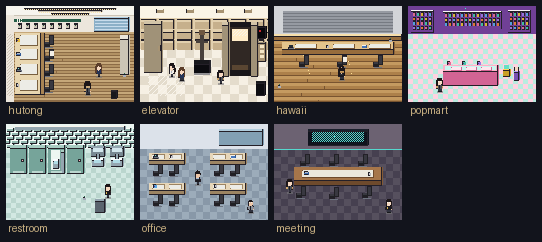
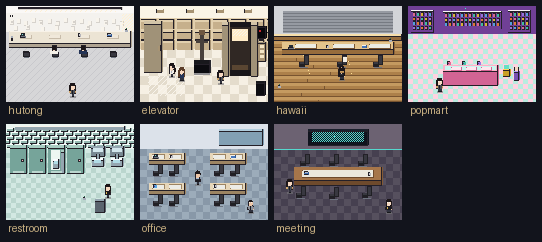
Rebuild hutong as a wall-flush long desk with four inward seats.
The side-desk photo is now the layout source: pale desk against the far ttc wall, four black chairs on the aisle side facing the wall, and a mostly empty tabletop. The deep office shot stays atmosphere only.

Changed region(s): [[0.0, 0.0289, 0.2657, 0.4339]]

diff --git a/public/index.html b/public/index.html
@@ -154,7 +154,7 @@
       </section>
       <section>
         <h2>保留场景 · 7</h2>
-        <p class="note">胡同工位朝里四座 / 电梯间 / 夏威夷 / 泡泡玛特 / 厕所 / 普通工位 / 会议室。茶水间、打印区、楼梯过道、天台、老板办公室、快递门口、胡同口已下架。</p>
+        <p class="note">胡同工位：远墙一条长桌、一侧四座朝墙、桌面留空 / 电梯间 / 夏威夷 / 泡泡玛特 / 厕所 / 普通工位 / 会议室。茶水间、打印区、楼梯过道、天台、老板办公室、快递门口、胡同口已下架。</p>
         <div class="grid" id="rooms"></div>
       </section>
       <section>
@@ -199,8 +199,8 @@
   <script>
     const ROOMS = [
       { id:"hutong", title:"胡同工位区", src:"assets/scenes/hutong/scene_hutong.png",
-        line:"这边还能放杯子。", y:148, t:"09:20", action:"sit_aisle",
-        why:"朝里拍，一边四座，里侧朝墙，桌面留空位。" },
+        line:"这边还能放杯子。", y:158, t:"09:20", action:"sit_aisle",
+        why:"远墙贴一条浅色长桌，一侧四座朝墙，桌面留空。" },
       { id:"elevator", title:"电梯间", src:"assets/scenes/elevator/scene_elevator.png",
         line:"先等这梯。", y:128, t:"09:12", action:"wait_lift",
         why:"米黄石材、开门、雕塑台座、屏与按钮。" },

diff --git a/scripts/generate_rooms.py b/scripts/generate_rooms.py
@@ -35,20 +35,20 @@ import generate_cast as gc  # noqa: E402
 W, H = 256, 192
 
 HT = {
-    "ceil": (246, 244, 238, 255),
-    "wall": (236, 230, 220, 255),
-    "wall_d": (204, 196, 182, 255),
-    "trim": (36, 92, 70, 255),
-    "floor": (198, 168, 122, 255),
-    "floor2": (178, 146, 100, 255),
-    "gap": (140, 108, 70, 255),
-    "desk": (232, 214, 176, 255),
-    "desk_hi": (248, 236, 204, 255),
-    "desk_e": (168, 132, 84, 255),
-    "pad": (242, 228, 190, 255),
+    "ceil": (250, 248, 246, 255),
+    "wall": (244, 242, 238, 255),
+    "wall_d": (214, 210, 204, 255),
+    "trim": (36, 34, 38, 255),
+    "floor": (214, 214, 216, 255),
+    "floor2": (200, 200, 204, 255),
+    "gap": (176, 176, 180, 255),
+    "desk": (236, 228, 212, 255),
+    "desk_hi": (248, 242, 232, 255),
+    "desk_e": (176, 164, 146, 255),
+    "pad": (246, 240, 228, 255),
     "chair": (32, 32, 36, 255),
     "mesh": (56, 56, 64, 255),
-    "sun": (255, 232, 176, 255),
+    "sun": (255, 240, 210, 255),
     "win": (174, 206, 228, 255),
 }
 EL = {
@@ -236,66 +236,110 @@ def chair_back(jacket=False) -> Image.Image:
     return img
 
 
+def chair_north(jacket=False) -> Image.Image:
+    """Mesh chair facing the far wall: dark seat + BACK toward the aisle."""
+    img = new(18, 20)
+    d = ImageDraw.Draw(img)
+    oval_shadow(d, 9, 18, 7, 2)
+    vline(d, 8, 14, 17, PAL["metal"])
+    hline(d, 4, 13, 17, PAL["metal_d"])
+    rect(d, [3, 5, 14, 9], HT["chair"])
+    box1(d, 2, 7, 15, 16, HT["chair"])
+    for y in range(9, 15):
+        for x in range(4, 14):
+            if (x + y) % 2 == 0:
+                d.point((x, y), fill=HT["mesh"])
+    if jacket:
+        rect(d, [4, 9, 13, 14], HW["jacket"])
+    return img
+
+
+def prop_spray() -> Image.Image:
+    img = new(5, 10)
+    d = ImageDraw.Draw(img)
+    box1(d, 1, 3, 3, 9, (220, 232, 242, 255))
+    rect(d, [1, 1, 3, 3], PAL["metal"])
+    d.point((2, 0), fill=PAL["metal_d"])
+    return img
+
+
+def seated_facing_wall(cid) -> Image.Image:
+    """Compact back-of-head + shoulders; sitting, facing the far wall."""
+    spec = next(s for s in gc.CAST if s["id"] == cid)
+    img = new(18, 18)
+    d = ImageDraw.Draw(img)
+    rect(d, [1, 10, 16, 17], spec["sleeve"])
+    rect(d, [4, 1, 13, 11], INK)
+    rect(d, [5, 2, 12, 10], (28, 22, 24, 255))
+    rect(d, [7, 10, 10, 12], spec["skin"])
+    return img
+
+
 def cast_sprite(cid="cast_01", view="front", frame=0):
     spec = next(s for s in gc.CAST if s["id"] == cid)
     return gc.draw_cast(spec, view, frame)
 
 
 # ===========================================================================
-# 1. 胡同 — 朝里 · 长桌贴左墙 · 四座朝墙 · 空 pad
+# 1. 胡同 — 远墙一条浅色长桌 · 一侧四座朝墙 · 桌面留空
+#    Layout from the side-along-the-desk photo (not the deep-office shot).
+#    WALL (top) | DESK | people/chairs facing wall | AISLE (bottom)
 # ===========================================================================
 def scene_hutong() -> Image.Image:
     room = new(W, H, HT["floor"])
     d = ImageDraw.Draw(room)
-    wood_floor(room, 52, HT["floor"], HT["floor2"], HT["gap"], 6)
+    # pale office floor — faint seams, not a checker floorplan
+    rect(d, [0, 84, W - 1, H - 1], HT["floor"])
+    for y in range(84, H, 28):
+        hline(d, 0, W - 1, y, HT["floor2"])
+    for x in range(0, W, 40):
+        vline(d, x, 84, H - 1, HT["floor2"])
+    dither(d, 0, 84, W - 1, H - 1, HT["floor2"], 7)
 
-    # ceiling + receding fixtures
-    rect(d, [0, 0, W - 1, 18], HT["ceil"])
-    for x0, x1, y in ((36, 220, 4), (64, 192, 9), (90, 166, 14)):
-        prism(d, x0, y, x1 - x0, 2, 2, WHITE, HT["wall_d"])
-        dither(d, x0, y + 3, x1, y + 4, HT["sun"], 4)
+    # white ceiling + fluorescent
+    rect(d, [0, 0, W - 1, 13], HT["ceil"])
+    prism(d, 24, 3, 208, 3, 3, WHITE, HT["wall_d"])
+    dither(d, 36, 8, 220, 12, HT["sun"], 5)
 
-    # far wall
-    rect(d, [0, 19, W - 1, 51], HT["wall"])
-    hline(d, 0, W - 1, 19, HT["wall_d"])
-    rect(d, [16, 26, 150, 32], HT["trim"])
-    tiny_text(d, 22, 27, "ttc", WHITE)
-    for x in (24, 40, 56, 72, 88, 104, 120, 136):
-        prism(d, x, 35, 8, 3, 8, WHITE, HT["wall_d"])
-        d.point((x + 3, 39), fill=HT["trim"])
-    # far window light
-    prism(d, 176, 22, 70, 4, 26, HT["win"], (140, 176, 200, 255))
-    for y in range(26, 48, 3):
-        hline(d, 178, 244, y, HT["sun"] if y % 6 == 2 else (200, 220, 236, 255))
-    for k in range(0, 36, 2):
-        d.point((200 + k // 4, 54 + k), fill=HT["sun"])
+    # FAR white wall — ttc + small frames. Desk flush to THIS wall.
+    rect(d, [0, 14, W - 1, 51], HT["wall"])
+    hline(d, 0, W - 1, 14, HT["wall_d"])
+    tiny_text(d, 8, 18, "ttc", HT["trim"])
+    frames = (
+        (8, 28), (22, 26), (36, 30), (52, 24), (66, 29),
+        (84, 26), (100, 31), (116, 24), (132, 28), (148, 26),
+        (164, 30), (180, 24), (196, 29), (212, 26), (228, 31),
+        (16, 40), (40, 38), (70, 42), (98, 39), (130, 41),
+        (160, 38), (190, 42), (220, 39),
+    )
+    for i, (fx, fy) in enumerate(frames):
+        box1(d, fx, fy, fx + 7, fy + 9, WHITE, HT["wall_d"])
+        if i % 4 == 0:
+            rect(d, [fx + 2, fy + 3, fx + 5, fy + 6], HT["wall_d"])
 
-    # LEFT inner wall (seats face this)
-    rect(d, [0, 19, 16, H - 1], HT["wall"])
-    vline(d, 16, 19, H - 1, HT["wall_d"])
-    dither(d, 2, 56, 14, 180, HT["wall_d"], 6)
+    dither(d, 232, 16, 254, 50, HT["sun"], 6)
 
-    # ONE continuous bench flush to the left wall; lip faces the AISLE (east)
-    prism(d, 18, 54, 52, 124, 8, HT["desk"], HT["desk_e"], lip="east")
-    items = [
-        (58, "box", prop_blindbox(BOXC[2]), False),
-        (86, "note", prop_notebook(), True),
-        (116, "laptop", prop_laptop(), False),
-        (148, "cup", prop_cup(), False),
-    ]
-    for y, name, spr, jacket in items:
-        # cool-white pad so the vacant bay reads on warm wood
-        empty_pad(d, 28, y, 36, 22, (236, 236, 230, 255), (120, 96, 64, 255))
-        blit(room, spr, 20, y + 6)
-        blit(room, chair_back(jacket=jacket), 76, y)
+    # ONE deep horizontal pale desk flush to the far wall (south lip = aisle)
+    prism(d, 6, 50, 244, 26, 8, HT["desk"], HT["desk_e"])
+    hline(d, 8, 247, 51, HT["desk_hi"])
 
-    # aisle column + plant + bag
-    prism(d, 228, 58, 18, 10, 70, HT["wall"], HT["wall_d"])
-    blit(room, prop_plant(), 232, 128)
-    prism(d, 210, 168, 12, 4, 14, (40, 40, 46, 255), (24, 24, 28, 255))
+    # four seat bays — faint pads, lots of bare laminate between them
+    bays = (16, 74, 132, 190)
+    items = (prop_laptop(), None, prop_cup(), prop_notebook())
+    for i, (bx, spr) in enumerate(zip(bays, items)):
+        empty_pad(d, bx + 12, 58, 24, 8, (240, 232, 218, 255), (200, 188, 170, 255))
+        if spr is not None:
+            blit(room, spr, bx + 12, 54)
+        blit(room, chair_north(), bx + 16, 86)
 
-    blit(room, cast_sprite("cast_01", "back", 0), 148, 148)
-    blit(room, cast_sprite("cast_06", "side", 0), 170, 112)
+    blit(room, prop_spray(), 10, 60)
+    blit(room, prop_plant(), 236, 38)
+
+    # sit BETWEEN chair and desk, facing the wall (backs to the aisle)
+    blit(room, seated_facing_wall("cast_02"), 88, 78)
+    blit(room, seated_facing_wall("cast_06"), 146, 78)
+
+    blit(room, cast_sprite("cast_01", "side", 0), 118, 152)
     return room
 
 
@@ -548,10 +592,10 @@ def scene_meeting() -> Image.Image:
 
 SCENES = [
     dict(id="hutong", title="胡同工位区",
-         blurb="朝里 · 长桌贴墙 · 一边四座朝墙 · 每座空 pad",
-         fn=scene_hutong, walk_y=148, line="这边还能放杯子。",
+         blurb="远墙一条浅色长桌 · 一侧四座朝墙 · 桌面留空",
+         fn=scene_hutong, walk_y=158, line="这边还能放杯子。",
          beat_t="09:20", action="sit_aisle",
-         why="相机在过道朝里：左墙一条长凳桌，四把黑椅背对过道、脸朝墙。每格桌面盖着空物位，只在靠墙侧放一件。"),
+         why="相机在过道朝墙：白墙 ttc + 小镜框，一条浅色长桌贴远墙，四把黑椅在桌南侧、人朝墙坐。桌面大块留空，只靠墙放一两件。纵深办公室照片只作白墙/黑椅/顶灯气氛。"),
     dict(id="elevator", title="电梯间",
          blurb="米黄石材 · 开门体积 · 雕塑台座 · 屏与按钮",
          fn=scene_elevator, walk_y=126, line="先等这梯。",

diff --git a/scripts/generate_assets.py b/scripts/generate_assets.py
@@ -32,10 +32,12 @@ import generate_rooms as rooms  # noqa: E402
 def tile_hutong_floor():
     t = new(32, 32, rooms.HT["floor"])
     d = ImageDraw.Draw(t)
-    for y in range(0, 32, 8):
-        base = rooms.HT["floor"] if (y // 8) % 2 == 0 else rooms.HT["floor2"]
-        rect(d, [0, y, 31, y + 7], base)
-        hline(d, 0, 31, y + 7, rooms.HT["gap"])
+    for y in range(0, 32, 16):
+        for x in range(0, 32, 16):
+            c = rooms.HT["floor"] if ((x + y) // 16) % 2 == 0 else rooms.HT["floor2"]
+            rect(d, [x, y, min(x + 15, 31), min(y + 15, 31)], c)
+            hline(d, x, min(x + 15, 31), y, rooms.HT["gap"])
+            vline(d, x, y, min(y + 15, 31), rooms.HT["gap"])
     return t
 
 

diff --git a/design/art-brief.md b/design/art-brief.md
@@ -15,7 +15,7 @@
 |------|------|
 | 相机 | 略俯，能看见桌面顶面和椅背 |
 | 角色 | 大头小身 chibi，不是写实肖像 |
-| 深度 | 阴影、墙厚、遮挡；胡同工位用「朝里」纵深 |
+| 深度 | 阴影、墙厚、遮挡；胡同工位是过道朝墙看一条横长桌 |
 | 轮廓 | **1px** 深色描边，不要 2px 粗块 |
 | 缩放 | `image-rendering: pixelated`，整数倍 |
 
@@ -23,7 +23,7 @@
 
 | 场景 | 地板 | 光 | 硬规则 |
 |------|------|----|--------|
-| 胡同工位区 | 浅木纹 | 窗外日光 + 顶灯 | 朝里拍，一边四座，里侧朝墙，桌面留空 |
+| 胡同工位区 | 浅灰地 | 白墙顶灯 | 远墙一条浅色长桌，一侧四座朝墙，桌面留空。纵深办公室照只作气氛 |
 | 电梯间 | 白石大理石 | 筒灯暖白 | 米黄石材、开门、雕塑、屏与按钮 |
 | 夏威夷 | 暖木 | 卷帘缝日光 | 窗边，座位留物位 |
 | 泡泡玛特 | 粉×薄荷细格 | 粉/青灯带 | 柜台不要堆死 |

diff --git a/design/iteration-rounds.md b/design/iteration-rounds.md
@@ -14,6 +14,7 @@
 | R8 | 八人 cast | 按参考重画 idle/walk；01 发尾 / 02 眼镜白衫 / 05 灰西 / 06 褐发条纹 / 07 蓝领 | 01/03/04/08 仍偏近；**cast_03 缺正脸** |
 | R9 | 文案+主循环 | `parallel-universe.md` + `distill-spec.md`：在线操控 / 离线 agent / 行为学习；蒸馏=冷启动。画廊/一天去掉「纯 agent」 | — |
 | R10 | 抛光选 best | 木地板改长条（去砖感）；椅背加大朝过道；空 pad 冷白描边 | 整体仍偏干净示意图，未达「元气骑士级密度」 |
+| R11 | 胡同按侧桌照片 | 远墙横长桌（不再贴左墙竖柜）；一侧四座朝墙；浅灰地+浅色桌；桌面大块留空 | 上一版读成四格柜门；纵深办公室照只作白墙/黑椅气氛 |
 
 ## 未完全达标（交卷时标明）
 

diff --git a/README.md b/README.md
@@ -36,7 +36,7 @@ npx --yes serve public -p 4173
 
 | ID | 中文 | 要点 | 路径 |
 |----|------|------|------|
-| `hutong` | 胡同工位区 | **朝里拍**，一边四座，里侧朝墙，桌面留空 | `public/assets/scenes/hutong/` |
+| `hutong` | 胡同工位区 | 远墙一条浅色长桌，一侧四座朝墙，桌面留空 | `public/assets/scenes/hutong/` |
 | `elevator` | 电梯间 | 米黄石材、开门、雕塑台座、屏与按钮 | `public/assets/scenes/elevator/` |
 | `hawaii` | 夏威夷 | 窗边，座位留物位 | `public/assets/scenes/hawaii/` |
 | `popmart` | 泡泡玛特店 | 细格盲盒墙，柜台留空 | `public/assets/scenes/popmart/` |

diff --git a/design/scenes/hutong.md b/design/scenes/hutong.md
@@ -2,9 +2,9 @@
 
 > 精致像素 · 256×192 · 2.5D · 桌面留物位
 
-朝里 · 长桌贴墙 · 一边四座朝墙 · 每座空 pad
+远墙一条浅色长桌 · 一侧四座朝墙 · 桌面留空
 
-相机在过道朝里：左墙一条长凳桌，四把黑椅背对过道、脸朝墙。每格桌面盖着空物位，只在靠墙侧放一件。
+相机在过道朝墙：白墙 ttc + 小镜框，一条浅色长桌贴远墙，四把黑椅在桌南侧、人朝墙坐。桌面大块留空，只靠墙放一两件。纵深办公室照片只作白墙/黑椅/顶灯气氛。
 
 - `public/assets/scenes/hutong/scene_hutong.png`
 - `public/preview/zoomed/hutong.png`

diff --git a/design/day-in-life.md b/design/day-in-life.md
@@ -24,7 +24,7 @@
 
 ### 2 · 09:20 · 胡同工位区
 - `sit_aisle` 「这边还能放杯子。」
-- 相机在过道朝里：左墙一条长凳桌，四把黑椅背对过道、脸朝墙。每格桌面盖着空物位，只在靠墙侧放一件。
+- 相机在过道朝墙：白墙 ttc + 小镜框，一条浅色长桌贴远墙，四把黑椅在桌南侧、人朝墙坐。桌面大块留空，只靠墙放一两件。纵深办公室照片只作白墙/黑椅/顶灯气氛。
 
 ### 3 · 09:40 · 夏威夷
 - `open_laptop` 「窗边这档先开。」
